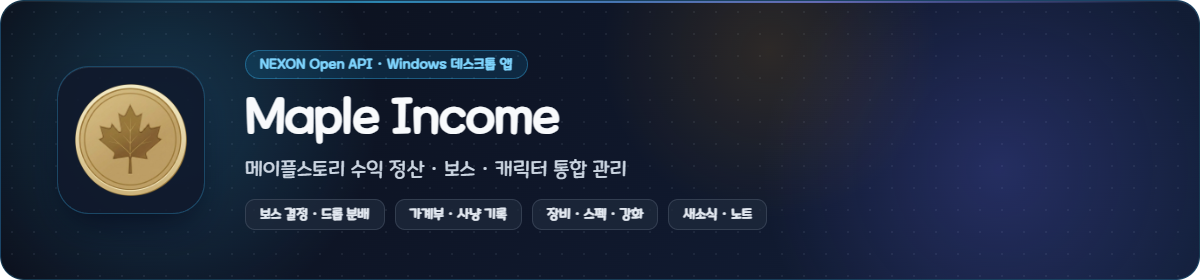
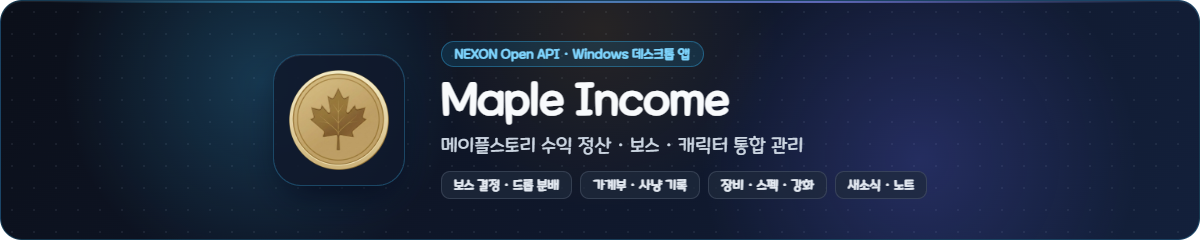
docs: README 배치 개선, 슬림 배너 교체 및 배포일 표기 제거

diff --git a/README.md b/README.md
@@ -4,23 +4,16 @@
     <source media="(prefers-color-scheme: light)" srcset="./docs/assets/readme-banner-light.png" />
     <img src="./docs/assets/readme-banner-dark.png" alt="Maple Income — 메이플스토리 수익 정산 · 보스 · 캐릭터 통합 관리" width="100%" />
   </picture>
-
-  <br />
-
-[![Latest Release](https://img.shields.io/github/v/release/th0079/maplestory-income-releases?label=latest&style=for-the-badge)](https://github.com/th0079/maplestory-income-releases/releases/latest)
-[![GitHub Pages](https://img.shields.io/badge/guide-GitHub%20Pages-2563eb?style=for-the-badge&logo=github)](https://th0079.github.io/maplestory-income-releases/)
-
 </div>
-
-![Maple Income 대시보드](./docs/screenshots/p01-dashboard-main.png)
 
 <!-- LATEST_RELEASE_START -->
 ## 최신 버전 · `v2.73.0`
 
 [![Windows 설치 파일 다운로드](https://img.shields.io/badge/Windows%20%EC%84%A4%EC%B9%98%20%ED%8C%8C%EC%9D%BC%20%EB%8B%A4%EC%9A%B4%EB%A1%9C%EB%93%9C-v2.73.0-0284c7?style=for-the-badge)](https://github.com/th0079/maplestory-income-releases/releases/download/v2.73.0/Maple-Income-Setup-2.73.0.exe)
+[![웹 가이드](https://img.shields.io/badge/%EC%9B%B9%20%EA%B0%80%EC%9D%B4%EB%93%9C-GitHub%20Pages-2563eb?style=for-the-badge&logo=github)](https://th0079.github.io/maplestory-income-releases/)
 [![릴리스 노트](https://img.shields.io/badge/%EB%A6%B4%EB%A6%AC%EC%8A%A4%20%EB%85%B8%ED%8A%B8-GitHub-334155?style=for-the-badge&logo=github)](https://github.com/th0079/maplestory-income-releases/releases/tag/v2.73.0)
 
-`Maple-Income-Setup-2.73.0.exe` · `2026-11-26` 배포
+`Maple-Income-Setup-2.73.0.exe`
 
 <details>
 <summary><strong>v2.73.0 주요 변경 사항 (7건)</strong></summary>
@@ -40,6 +33,14 @@
 
 </details>
 <!-- LATEST_RELEASE_END -->
+
+---
+
+## 화면 미리보기
+
+<div align="center">
+  <img src="./docs/screenshots/p01-dashboard-main.png" alt="Maple Income 대시보드" width="86%" />
+</div>
 
 ---
 
